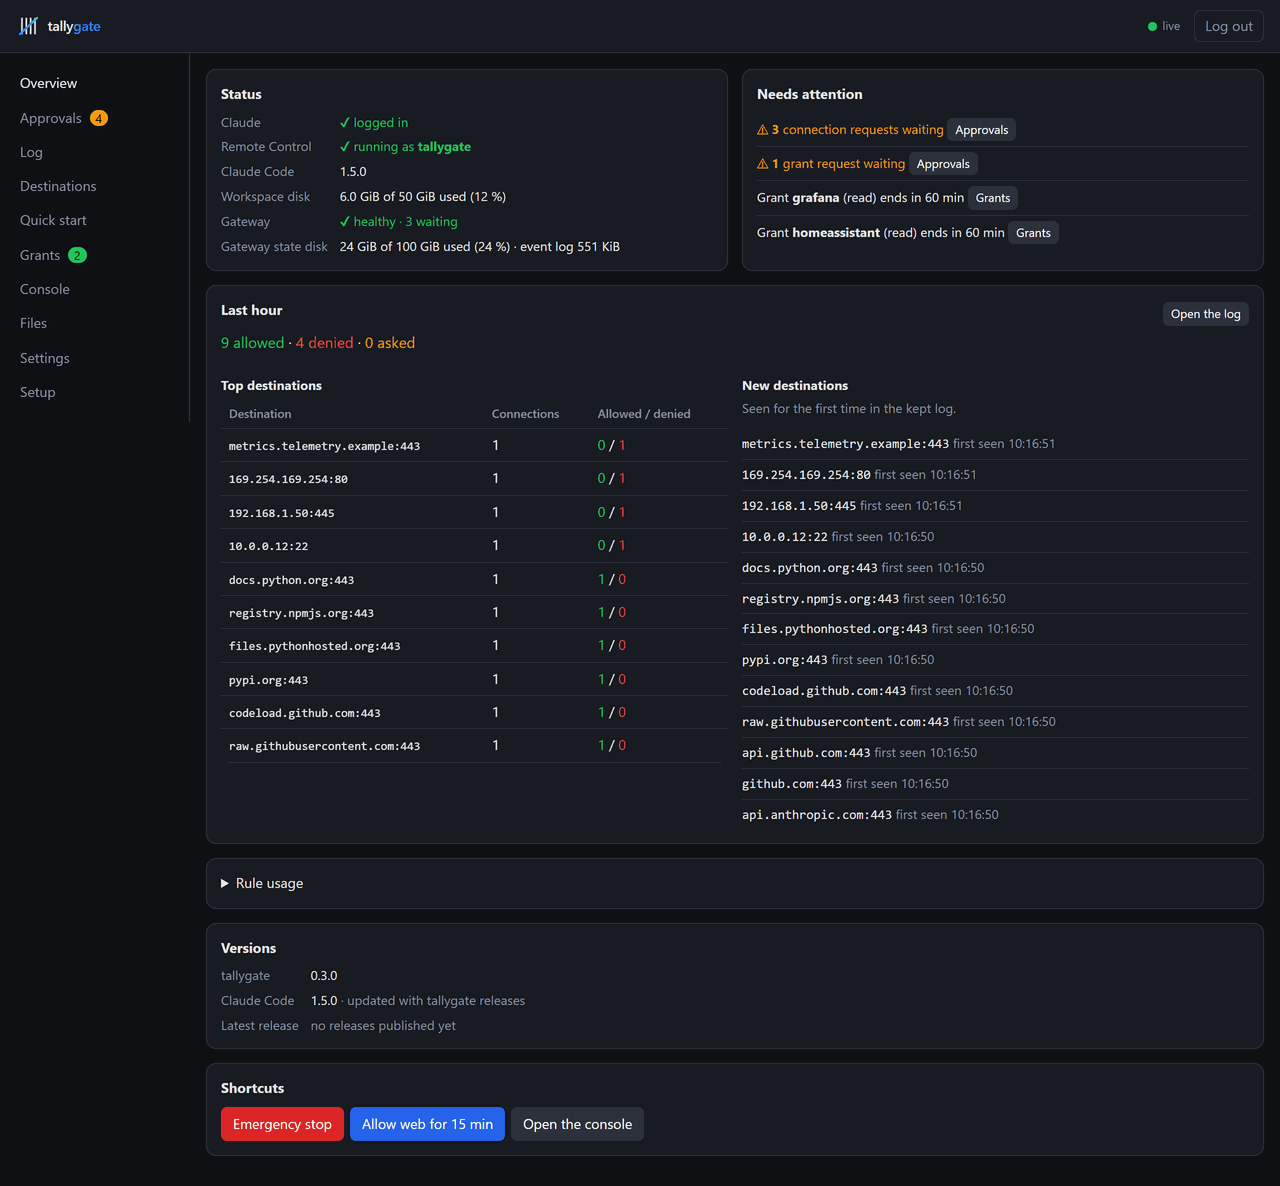
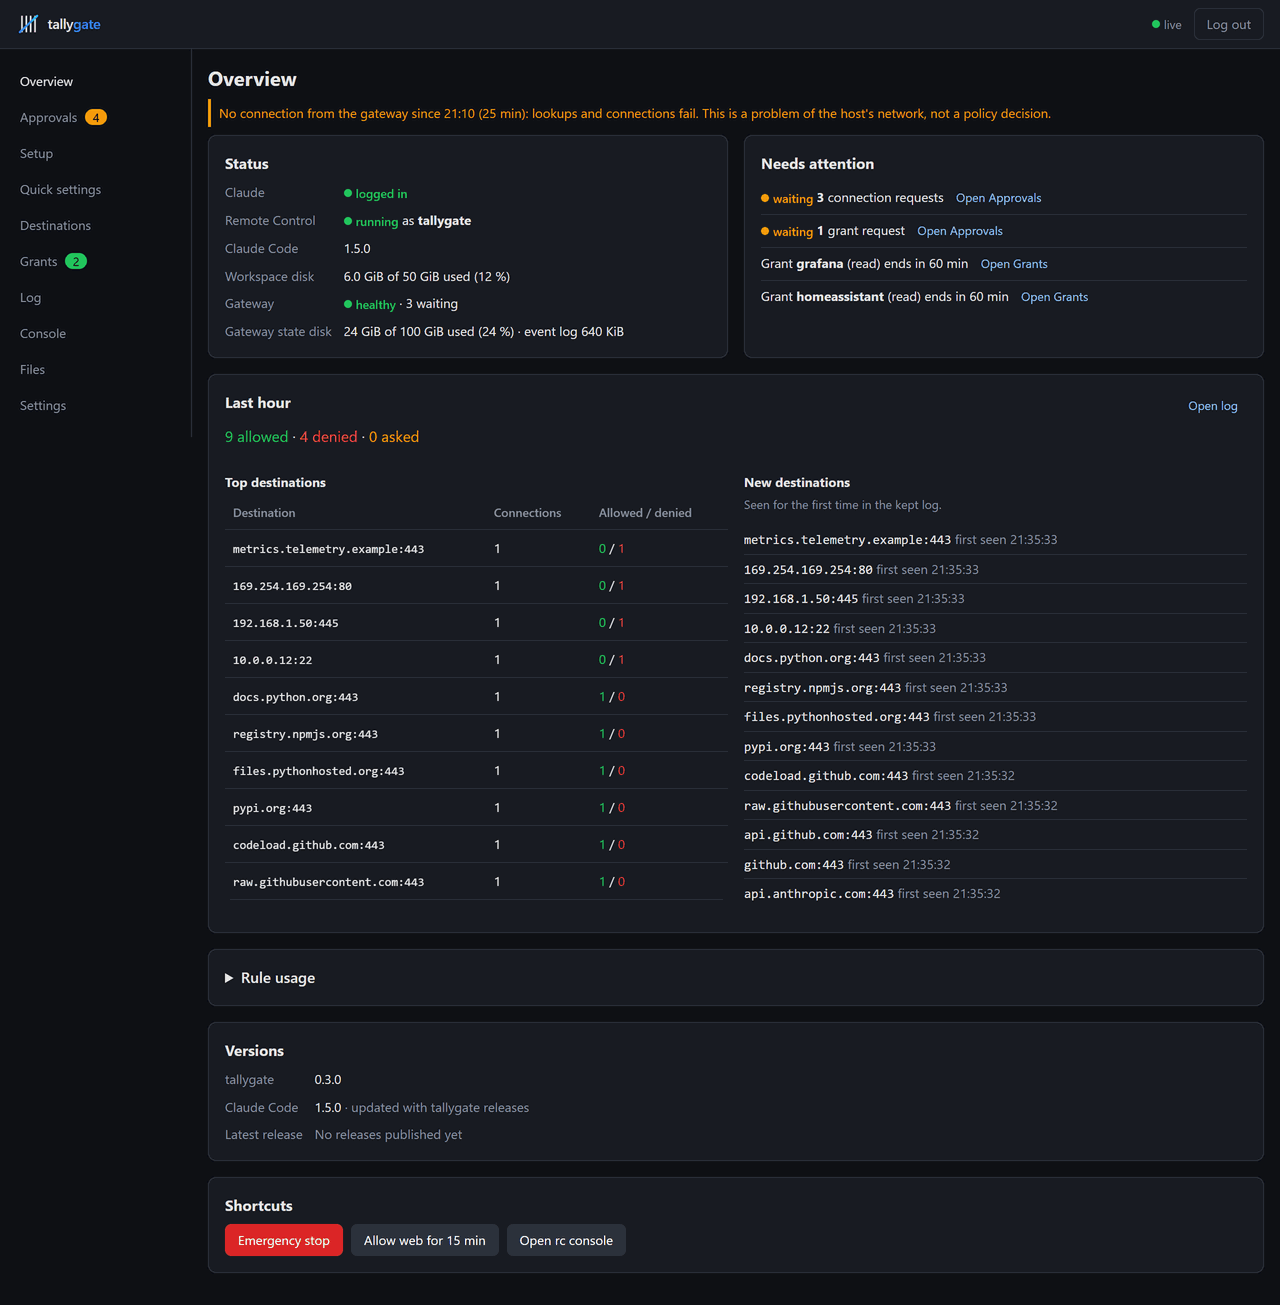
docs: retake control-UI screenshots after the UX pass (#209)
Retake every control-UI screenshot on a browser host with neutral demo
data for the post-#202 UI:

- Approvals: the new button labels (Allow for 5 min / Allow for … min /
  Allow *.domain permanently / Deny for … min / Deny permanently).
- Destinations: the ADR-0019 one ordered rule list with Move/Edit/Delete,
  the built-in blocks as deny rules, the config-file properties and the
  locked rows (GW_INTERNAL_NETS set in the demo), default as the last line.
- Overview and Log: the "no connection from the gateway" outage banner (#218).
- Quick settings (renamed), the Settings "Menu" section, and the reordered
  sidebar on every tab.
- Setup: the per-channel notifications block with the notification-button
  override, and the self-test as the optional last step.

All neutral: public/example hosts, a synthetic git identity, neutral disk
figures - no real tokens, hostnames or paths. Also drops the stale
"retaken separately" note now that the pictures match.

Closes #209

diff --git a/docs/screenshots.md b/docs/screenshots.md
@@ -2,9 +2,7 @@
 
 The control UI, one picture per surface. All shots use neutral demo data (example hosts, no real
 tokens or addresses). Retake them after a UI change with a clean stack and the same demo data, then
-check each still matches its caption. The pictures are retaken separately (#209): until then some of them
-show the UI from before the ordered rule list (ADR-0019) and the reordered menu; the captions describe the
-UI as it is now.
+check each still matches its caption.
 
 | Picture | Shows |
 |---|---|
